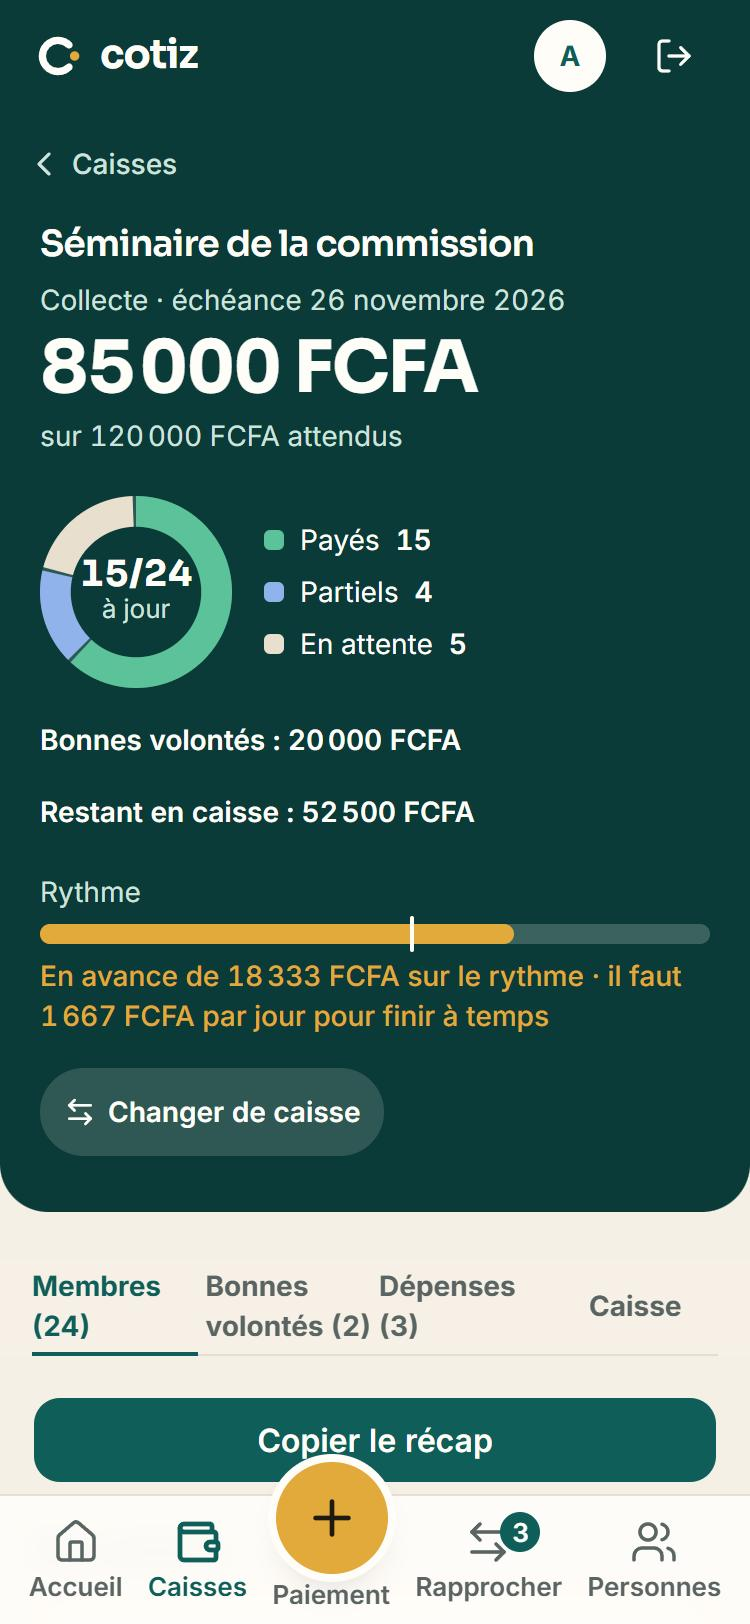
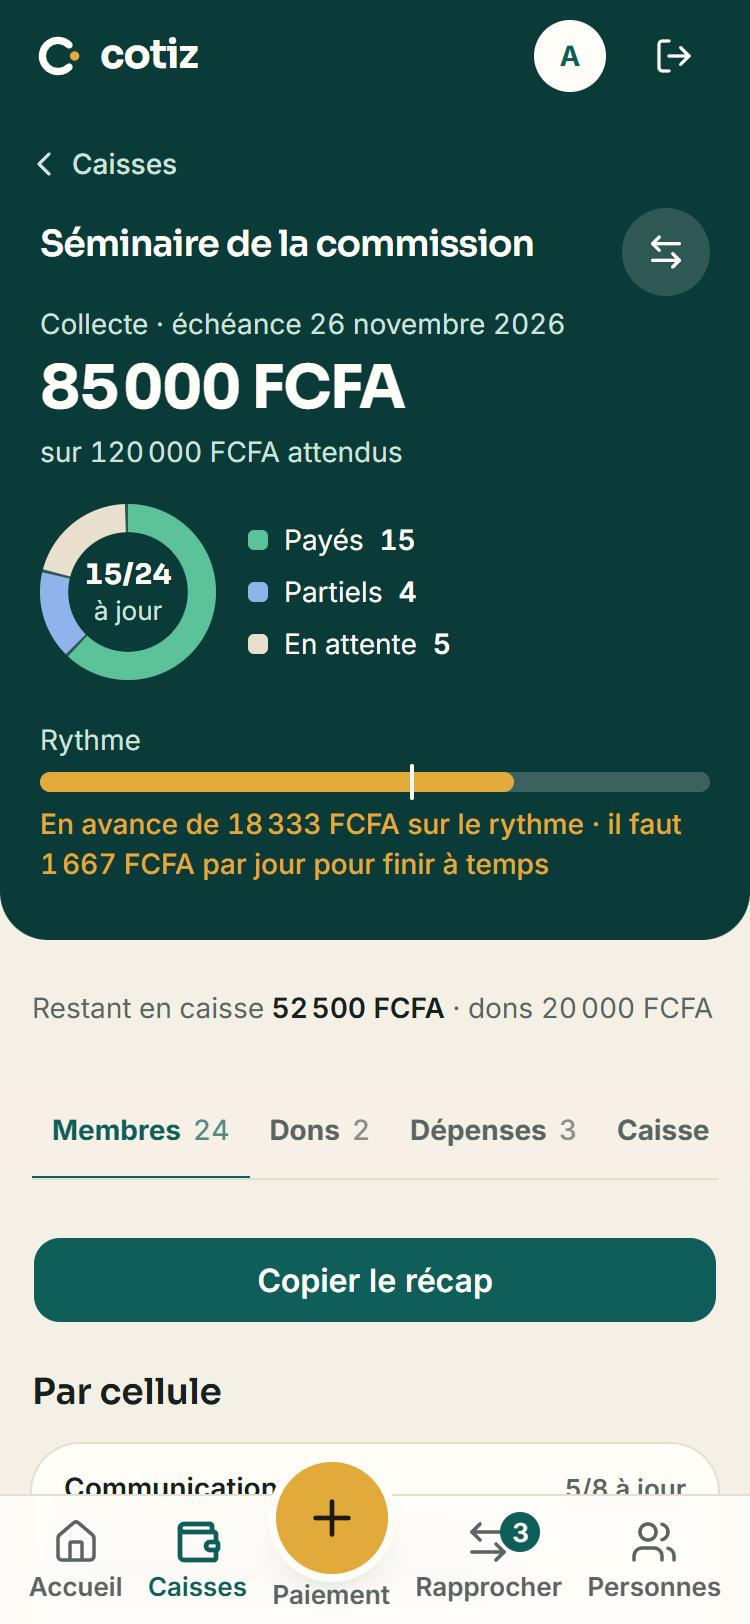
style: mobile aéré – bandeau compact, onglets sur une ligne, libellés courts
Téléphone seulement : montant et anneau plus petits, « Changer de caisse » en icône, restant et dons sous le bandeau, onglets sans retour à la ligne, cases de l'accueil en libellés courts, plus d'espace entre les sections. Captures téléphone refaites (données inventées).

diff --git a/app/(prive)/caisses/[id]/page.tsx b/app/(prive)/caisses/[id]/page.tsx
@@ -104,14 +104,14 @@ async function DetailCaisse({
   const suivi = donnees ? calculerSuivi(lignesSuivi, donnees.cycle.dateEcheance, jour, donnees.totalArrieres) : null;
   const grilleMois = mensualite && donnees && caisse.moisDebut && caisse.nombreMois ? construireGrilleMois(donnees.lignes, caisse.montantCotisation, caisse.moisDebut, caisse.nombreMois, jour) : null;
   const numeroMois = mensualite && caisse.moisDebut && caisse.nombreMois ? moisEnCours(caisse.moisDebut, caisse.nombreMois, jour) : 0;
-  const vues: { vue: Vue; libelle: string }[] = [
-    { vue: "membres", libelle: suivi ? `Membres (${suivi.actifs.length})` : "Membres" },
-    ...(grilleMois ? [{ vue: "mois" as const, libelle: "Mois par mois" }] : []),
+  const vues: { vue: Vue; libelle: string; court?: string; nombre?: number }[] = [
+    { vue: "membres", libelle: "Membres", nombre: suivi?.actifs.length },
+    ...(grilleMois ? [{ vue: "mois" as const, libelle: "Mois par mois", court: "Mois" }] : []),
     ...(caisse.type === "TONTINE" && nbCycles > 0 ? [{ vue: "historique" as const, libelle: "Historique" }] : []),
     ...(sorties
       ? [
-          { vue: "dons" as const, libelle: dons.length > 0 ? `Bonnes volontés (${dons.length})` : "Bonnes volontés" },
-          { vue: "depenses" as const, libelle: depenses.length > 0 ? `Dépenses (${depenses.length})` : "Dépenses" },
+          { vue: "dons" as const, libelle: "Bonnes volontés", court: "Dons", nombre: dons.length || undefined },
+          { vue: "depenses" as const, libelle: "Dépenses", nombre: depenses.length || undefined },
         ]
       : []),
     { vue: "caisse", libelle: "Caisse" },
@@ -142,10 +142,10 @@ async function DetailCaisse({
       : caisse.dateLimite && `avant le ${formaterDate(caisse.dateLimite)}`;
 
   // Anneau des statuts (lot 3) : sous le montant sur téléphone, à gauche des chiffres sur ordinateur.
-  const anneauStatuts = suivi && (
+  const anneauStatuts = (taille = 96) => suivi && (
     <div className="flex items-center gap-4">
       <Anneau
-        taille={96}
+        taille={taille}
         epaisseur={16}
         libelle={`${suivi.totaux.payes} payés, ${suivi.totaux.partiels} partiels, ${suivi.totaux.enAttente} en attente`}
         segments={[
@@ -154,7 +154,7 @@ async function DetailCaisse({
           { libelle: "En attente", valeur: suivi.totaux.enAttente, trait: "stroke-anneau-attente" },
         ]}
       >
-        <span className="font-heading text-lg leading-none font-bold">
+        <span className={cn("font-heading leading-none font-bold", taille < 96 ? "text-sm" : "text-lg")}>
           {suivi.totaux.payes}/{suivi.actifs.length}
         </span>
         <span className="text-xs text-nuit-doux">à jour</span>
@@ -181,12 +181,14 @@ async function DetailCaisse({
       : null;
   const pourcentageRecu = suivi && suivi.totaux.attendu > 0 ? Math.round((suivi.totaux.recu / suivi.totaux.attendu) * 100) : 0;
   const selecteur = caisses.length > 1 && <SelecteurCaisse caisseId={caisse.id} caisses={caisses} />;
+  const selecteurCompact = caisses.length > 1 && <SelecteurCaisse caisseId={caisse.id} caisses={caisses} compact />;
 
   return (
     <>
       <EnTete
-        aCote={anneauStatuts}
+        aCote={anneauStatuts()}
         action={selecteur}
+        actionMobile={selecteurCompact}
         retour={RETOUR}
         titre={caisse.nom}
         surtitre={
@@ -231,14 +233,7 @@ async function DetailCaisse({
             </p>
             {/* Ordinateur : la part reçue est écrite sous « Reçu ». Collecte ouverte : la jauge de rythme la montre déjà. */}
             <Progression valeur={suivi.totaux.recu} total={suivi.totaux.attendu} libelle="Part reçue sur ce cycle" className={rythme ? "hidden" : "lg:hidden"} />
-            <div className="mt-4 lg:hidden">{anneauStatuts}</div>
-            {bilan && bilan.dons > 0 && <p className="mt-3 text-sm font-semibold lg:hidden">Bonnes volontés : {formaterFCFA(bilan.dons)}</p>}
-            {bilan && (bilan.depense > 0 || bilan.dons > 0) && (
-              <p className={cn("mt-3 text-sm font-semibold lg:hidden", bilan.depassement &&"rounded-xl bg-primary-foreground px-3 py-1.5 text-retard")}>
-                Restant en caisse : {formaterFCFA(bilan.restant)}
-                {bilan.depassement && " (dépassement)"}
-              </p>
-            )}
+            <div className="mt-3 lg:hidden">{anneauStatuts(88)}</div>
           </>
         ) : (
           <p className="text-sm text-nuit-doux">par membre{echeance ? `, ${echeance}` : ""}</p>
@@ -248,24 +243,40 @@ async function DetailCaisse({
             <JaugeRythme rythme={rythme} />
           </div>
         )}
-        {selecteur && <div className="lg:hidden">{selecteur}</div>}
       </EnTete>
+
+      {/* Téléphone : l'argent de la collecte sur une ligne, sous le bandeau (sur ordinateur, il est dans le bandeau). */}
+      {suivi && bilan && (bilan.depense > 0 || bilan.dons > 0) && (
+        <p className={cn("-mt-2 text-sm text-muted-foreground lg:hidden", bilan.depassement && "font-semibold text-retard")}>
+          Restant en caisse <span className="font-semibold text-foreground">{formaterFCFA(bilan.restant)}</span>
+          {bilan.depassement && " (dépassement)"}
+          {bilan.dons > 0 && ` · dons ${formaterFCFA(bilan.dons)}`}
+        </p>
+      )}
 
       {/* Onglets (audit, lot 1) : la liste des membres ne repousse plus dépenses et réglages tout en bas. */}
       <nav aria-label="Sections de la caisse" data-pleine-largeur className="sticky top-0 z-[5] -mx-4 bg-background/95 px-4 backdrop-blur lg:mx-0 lg:px-0">
-        <ul className="flex gap-1 border-b border-border">
+        <ul className="flex overflow-x-auto border-b border-border [scrollbar-width:none]">
           {vues.map((v) => (
-            <li key={v.vue} className="flex-1">
+            <li key={v.vue} className="shrink-0 lg:flex-1">
               <Link
                 href={v.vue === "membres" ? `/caisses/${caisse.id}` : `/caisses/${caisse.id}?vue=${v.vue}`}
                 scroll={false}
                 aria-current={vue === v.vue ? "page" : undefined}
                 className={cn(
-                  "-mb-px flex h-12 items-center justify-center border-b-2 text-sm font-bold",
+                  "-mb-px flex h-12 items-center justify-center gap-1.5 border-b-2 px-2.5 text-sm font-bold whitespace-nowrap lg:px-3",
                   vue === v.vue ? "border-primary text-primary" : "border-transparent text-muted-foreground",
                 )}
               >
-                {v.libelle}
+                {v.court ? (
+                  <>
+                    <span className="lg:hidden">{v.court}</span>
+                    <span className="hidden lg:inline">{v.libelle}</span>
+                  </>
+                ) : (
+                  v.libelle
+                )}
+                {v.nombre !== undefined && <span className="font-medium opacity-70">{v.nombre}</span>}
               </Link>
             </li>
           ))}

diff --git a/app/(prive)/tableau-de-bord/page.tsx b/app/(prive)/tableau-de-bord/page.tsx
@@ -86,8 +86,9 @@ async function Accueil() {
             total={Math.max(attendu, recu)}
             libelle={`${pourcentage} % de l'attendu réparti sur les cycles en cours`}
             taille={128}
+            className="max-lg:size-24!"
           >
-            <span className="font-heading text-2xl font-bold">{pourcentage} %</span>
+            <span className="font-heading text-xl font-bold lg:text-2xl">{pourcentage} %</span>
             <span className="text-xs text-nuit-doux">réparti</span>
           </Anneau>
           <dl className="flex min-w-0 flex-col gap-3">
@@ -151,8 +152,8 @@ async function Accueil() {
 
       <dl data-pleine-largeur className="grid grid-cols-2 gap-px overflow-hidden rounded-2xl bg-border ring-1 ring-border lg:grid-cols-3">
         {[
-          { libelle: "Arrivé ces 7 jours", valeur: formaterFCFA(tendances.recu.actuelle), tendance: tendances.recu },
-          { libelle: "Moyenne par jour (7 j)", valeur: formaterFCFA(tendances.moyenne.actuelle), tendance: tendances.moyenne },
+          { libelle: "Arrivé (7 j)", valeur: formaterFCFA(tendances.recu.actuelle), tendance: tendances.recu },
+          { libelle: "Moyenne / jour", valeur: formaterFCFA(tendances.moyenne.actuelle), tendance: tendances.moyenne },
           { libelle: "Cycles en cours", valeur: String(resumes.length), detail: `${collectes.length} collecte${collectes.length > 1 ? "s" : ""}` },
         ].map((c) => (
           <div key={c.libelle} className="bg-card px-4 py-3 last:col-span-2 lg:last:col-span-1">
@@ -313,7 +314,8 @@ function Evolution({ tendance }: { tendance: Tendance }) {
     <dd className={cn("flex items-center gap-0.5 text-xs font-medium", hausse ? "text-paye" : "text-retard")}>
       <Fleche aria-hidden className="size-3.5" />
       {hausse ? "+" : "−"}
-      {formaterFCFA(Math.abs(tendance.ecart))} vs semaine d&apos;avant
+      {formaterFCFA(Math.abs(tendance.ecart))}
+      <span className="sr-only lg:not-sr-only">&nbsp;vs semaine d&apos;avant</span>
     </dd>
   );
 }

diff --git a/components/cotiz/en-tete.tsx b/components/cotiz/en-tete.tsx
@@ -41,6 +41,7 @@ export function EnTete({
   leger = false,
   aCote,
   action,
+  actionMobile,
 }: {
   titre: React.ReactNode;
   /** Lien de retour affiché au-dessus du titre. */
@@ -59,6 +60,8 @@ export function EnTete({
   aCote?: React.ReactNode;
   /** Ordinateur : élément à droite du titre (ex. « Changer de caisse »). */
   action?: React.ReactNode;
+  /** Téléphone : version compacte de l'action, à droite du titre (icône seule). */
+  actionMobile?: React.ReactNode;
 }) {
   const avecChiffres = !leger && chiffres !== undefined && chiffres.length > 0;
   return (
@@ -98,10 +101,11 @@ export function EnTete({
           <div className="flex items-start justify-between gap-4">
             <h1 className={cn("font-semibold tracking-tight lg:text-3xl", montant !== undefined ? "text-lg" : "text-2xl")}>{titre}</h1>
             {action && <div className="hidden shrink-0 lg:block">{action}</div>}
+            {actionMobile && <div className="-mt-1 shrink-0 lg:hidden">{actionMobile}</div>}
           </div>
           {surtitre && <p className={cn("text-sm lg:text-base", leger ? "text-muted-foreground" : "text-nuit-doux")}>{surtitre}</p>}
           {montant !== undefined && (
-            <p className={cn("font-heading text-4xl font-bold tracking-tight lg:mt-2 lg:text-5xl", avecChiffres && "lg:hidden")}>{montant}</p>
+            <p className={cn("font-heading text-3xl font-bold tracking-tight lg:mt-2 lg:text-5xl", avecChiffres && "lg:hidden")}>{montant}</p>
           )}
           {children}
         </div>

diff --git a/app/(prive)/caisses/[id]/selecteur-caisse.tsx b/app/(prive)/caisses/[id]/selecteur-caisse.tsx
@@ -8,12 +8,18 @@ import { useRouter } from "next/navigation";
  * dans l'en-tête (audit, lot 3) : le nom de la caisse est déjà le titre, le champ affiche donc
  * « Changer de caisse » plutôt que la caisse courante.
  */
-export function SelecteurCaisse({ caisseId, caisses }: { caisseId: string; caisses: { id: string; nom: string; statut: string }[] }) {
+export function SelecteurCaisse({ caisseId, caisses, compact = false }: { caisseId: string; caisses: { id: string; nom: string; statut: string }[]; compact?: boolean }) {
   const router = useRouter();
   return (
-    <label className="relative mt-3 flex h-11 w-fit items-center gap-1.5 rounded-full bg-primary-foreground/15 pr-3 pl-3 text-sm font-semibold text-primary-foreground">
-      <ArrowLeftRight aria-hidden className="size-4" />
-      Changer de caisse
+    <label
+      className={
+        compact
+          ? "relative flex size-11 items-center justify-center rounded-full bg-primary-foreground/15 text-primary-foreground"
+          : "relative mt-3 flex h-11 w-fit items-center gap-1.5 rounded-full bg-primary-foreground/15 pr-3 pl-3 text-sm font-semibold text-primary-foreground"
+      }
+    >
+      <ArrowLeftRight aria-hidden className={compact ? "size-5" : "size-4"} />
+      {!compact && "Changer de caisse"}
       <select
         aria-label="Changer de caisse"
         value=""

diff --git a/app/(prive)/layout.tsx b/app/(prive)/layout.tsx
@@ -32,7 +32,7 @@ export default function LayoutPrive({ children }: { children: React.ReactNode })
       </header>
       {/* Marge basse : la barre d'onglets fixe ne doit pas cacher la fin de la page. */}
       <main className="flex flex-1 flex-col overflow-x-clip px-4 pt-4 pb-[calc(7rem+env(safe-area-inset-bottom))] lg:px-10 lg:pt-8 lg:pb-12">
-        <div className="colonne-privee mx-auto flex w-full max-w-md flex-1 flex-col gap-5 lg:max-w-7xl lg:gap-6">{children}</div>
+        <div className="colonne-privee mx-auto flex w-full max-w-md flex-1 flex-col gap-7 lg:max-w-7xl lg:gap-6">{children}</div>
       </main>
       {/* usePathname() est une donnée de la requête : sous <Suspense> avec les Cache Components. */}
       {/* Messages de confirmation après une action (lib/annonce.ts). */}

diff --git a/components/cotiz/section.tsx b/components/cotiz/section.tsx
@@ -17,7 +17,7 @@ export function Section({
   pleineLargeur?: boolean;
 }) {
   return (
-    <section data-pleine-largeur={pleineLargeur || undefined} className={cn("flex flex-col gap-2", className)}>
+    <section data-pleine-largeur={pleineLargeur || undefined} className={cn("flex flex-col gap-3", className)}>
       <div className="flex min-h-6 items-center justify-between gap-2">
         <h2 className="font-heading text-lg font-semibold">{titre}</h2>
         {action}

diff --git a/CAHIER_DES_CHARGES.md b/CAHIER_DES_CHARGES.md
@@ -576,3 +576,4 @@ Tu travailles avec une développeuse qui doit pouvoir expliquer chaque choix en 
   - **Focus clavier** : contour or sur les fonds nuit (barre latérale, bandeaux), où le teal était invisible.
   - **Titres de section** en `text-lg` ; `text-xs` (13 px) au lieu de `text-[13px]`.
   - Reste à décider : onglets internes pour la page d'une caisse.
+- **Mobile aéré (06/11/2026, demande de la trésorière)** : sur téléphone seulement, bandeau compact (montant un cran plus petit, anneau plus petit, « Changer de caisse » en icône à côté du titre), restant et dons d'une collecte sur une ligne sous le bandeau, onglets sur une ligne (libellés courts, nombre à part, défilement horizontal si besoin), cases de chiffres de l'accueil en libellés courts, plus d'espace entre les sections qu'entre les cartes. Rien en dessous de 13 px. L'ordinateur ne change pas.
